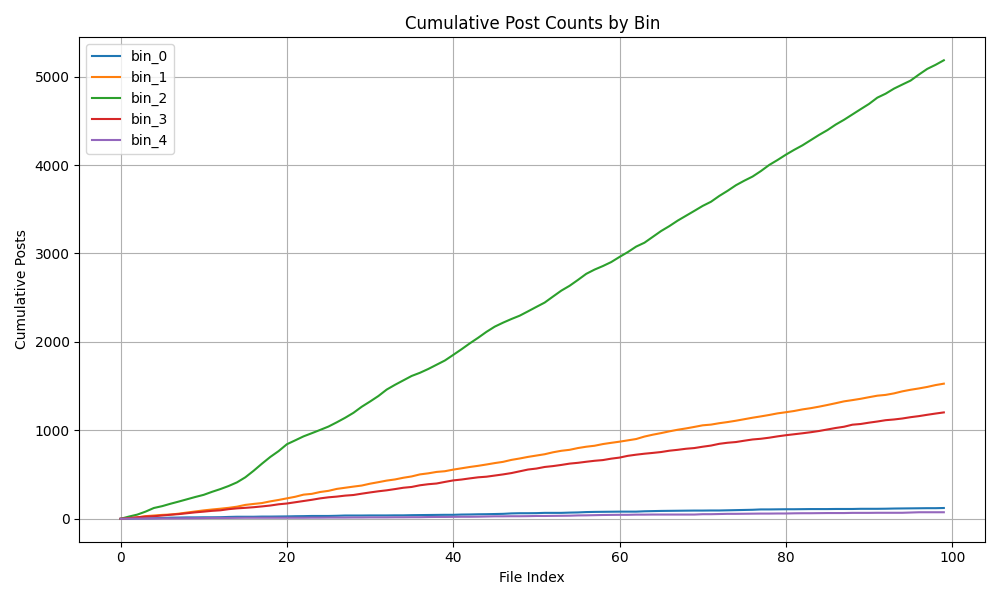
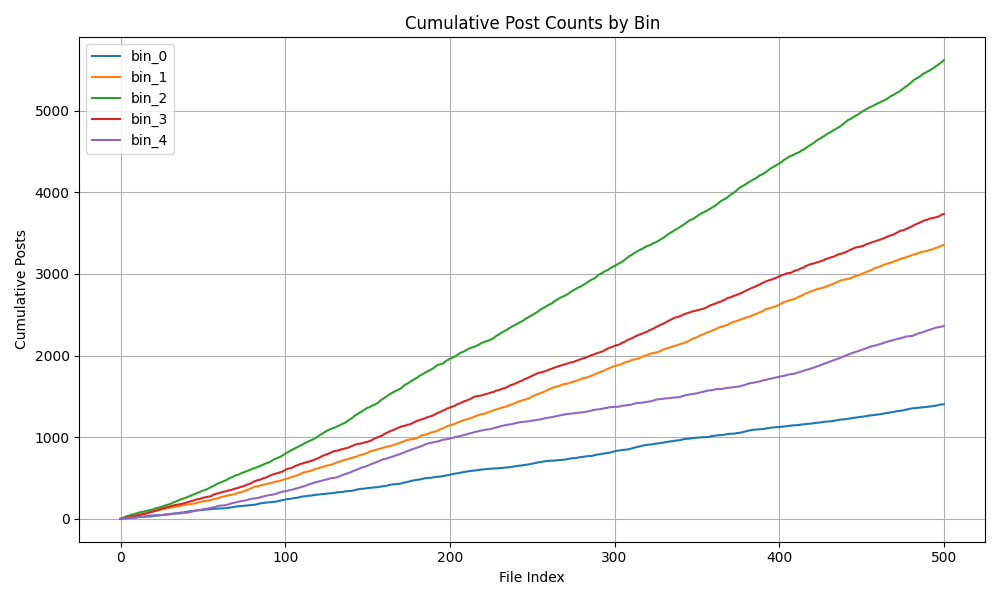
200人でエコチェ再現

diff --git a/src/agent/Agent.java b/src/agent/Agent.java
@@ -19,7 +19,7 @@ public class Agent {
     private final double unfollowProbThres = Const.UNFOLLOW_RATE;
     private double postDrive; // 投稿意欲を表現するパラメータ [0,1]
     private int toPost; // ある時刻において何件の投稿をするか
-    private int numOfPosts = rand.nextInt(100); // 毎時何件の投稿を閲覧できるか
+    private int numOfPosts = rand.nextInt(90) + 10; // 毎時何件の投稿を閲覧できるか
     private final double rewireProbThres = Const.REWIRE_RATE;
     private int opinionClass;
 
@@ -27,8 +27,9 @@ public class Agent {
     public Agent(int agentID) {
         this.id = agentID;
         // this.tolerance = rand.nextDouble(); // 0〜1 の乱数
-        this.tolerance = 0.4;
+        this.tolerance = 0.8;
         this.intrinsicOpinion = Math.max(-1.0, Math.min(1.0, rand.nextGaussian() * 0.5));
+        // this.intrinsicOpinion = rand.nextDouble() * 2.0 - 1;
         this.opinion = this.intrinsicOpinion;
         this.screen = new int[NUM_OF_AGENTS]; // 全ユーザの中で、どのユーザの投稿を何件閲覧するかについての配列(隣接行列の行成分)
         this.bc = Const.BOUNDED_CONFIDENCE; // 動的にしてもよい。
@@ -59,8 +60,12 @@ public class Agent {
         return this.toPost;
     }
 
-    public int getOpinionClass(){
+    public int getOpinionClass() {
         return this.opinionClass;
+    }
+
+    public double getBc(){
+        return this.bc;
     }
 
     // setter methods
@@ -85,7 +90,7 @@ public class Agent {
         this.toPost = value;
     }
 
-    public void setOpinionClass(){
+    public void setOpinionClass() {
         double shiftedOpinion = this.opinion + 1; // [-1,1] → [0,2]
         double opinionBinWidth = 2.0 / Const.NUM_OF_BINS_OF_OPINION;
         this.opinionClass = (int) Math.min(shiftedOpinion / opinionBinWidth, Const.NUM_OF_BINS_OF_OPINION - 1);
@@ -104,7 +109,7 @@ public class Agent {
         double[] weight = Network.getAdjacencyMatrix()[this.id].clone();
 
         for (int i = 0; i < NUM_OF_AGENTS; i++) {
-            if (allAgents[i].getToPost() > 0) { // その人が投稿した場合だけ、投稿を見て影響を受ける。そもそも投稿しないなら影響０
+            if (allAgents[i].getToPost() > 0 && screen[i] > 0) { // その人が投稿した場合だけ、投稿を見て影響を受ける。そもそも投稿しないなら影響０
                 temp += weight[i] * allAgents[i].getOpinion();
             }
         }
@@ -112,9 +117,11 @@ public class Agent {
         // 意見の加重平均（スクリーンに誰もいない場合は intrinsicOpinion のみ）
         if (temp == 0.0) {
             this.opinion = this.tolerance * this.intrinsicOpinion + (1 - this.tolerance) * this.opinion;
-            //System.out.println("user " + this.id + " has not read any posts"); // 誰もフォローしてないか、それとも誰も投稿してないか
+            // System.out.println("user " + this.id + " has not read any posts"); //
+            // 誰もフォローしてないか、それとも誰も投稿してないか
         } else {
             this.opinion = this.tolerance * this.intrinsicOpinion + (1 - this.tolerance) * temp;
+            // System.out.println("influencial opinion score : "+ temp);
             // System.out.println("\nupdated opinion: " + this.opinion);
         }
 
@@ -237,6 +244,7 @@ public class Agent {
 
         if (rewireProbThres <= rand.nextDouble()) {
             result[0] = -1;
+            result[1] = -1;
             return result;
         }
 
@@ -254,13 +262,13 @@ public class Agent {
                 if (diff >= this.bc) {
                     unfollowCandidates.add(i);
                 }
-            } else if (screen[i] == 0) {
-                for (int id : followList) {
-                    double diff = Math.abs(this.opinion - agentSet[id].getOpinion());
-                    if (diff <= this.bc) {
-                        followCandidates.add(id);
-                    }
-                }
+            }
+        }
+
+        for (int candidateId : followList) {
+            double diff = Math.abs(this.opinion - agentSet[candidateId].getOpinion());
+            if (diff <= this.bc) {
+                followCandidates.add(candidateId);
             }
         }
 
@@ -276,6 +284,11 @@ public class Agent {
 
             result[0] = followId;
             result[1] = unfollowId;
+            if (this.bc > Const.MINIMUM_BC + 0.01) {
+                this.bc -= 0.01;
+                // System.out.println("bc is reduced to : " + this.bc + ", whose opinion is " +
+                // this.opinion);
+            }
         } else {
             // どちらか一方の候補がいなければ、リワイヤリングできない
             result[0] = -1;
@@ -297,15 +310,15 @@ public class Agent {
         // 周りに同じ意見の人がどのくらいいるかで決定
         int numOfComfortPost = 0;
         for (int i = 0; i < n; i++) {
-            if (this.screen[i] > 0 && Math.abs(agentSet[i].getOpinion() - this.opinion) < 0.2) {
+            if (this.screen[i] > 0 && Math.abs(agentSet[i].getOpinion() - this.opinion) < Const.MINIMUM_BC) {
                 numOfComfortPost += this.screen[i];
             }
         }
         double comfortRate = (double) numOfComfortPost / this.numOfPosts;
-        if (comfortRate > 0.2) {
-            this.postDrive += comfortRate * 0.05;
+        if (comfortRate > 0.8) {
+            this.postDrive += comfortRate;
         }
-        if (this.postDrive > 0.5) {
+        if (this.postDrive > 0.8) {
             this.toPost = 1;
             this.postDrive = 0;
         } else {

diff --git a/src/dynamics/OpinionDynamics.java b/src/dynamics/OpinionDynamics.java
@@ -94,21 +94,22 @@ public class OpinionDynamics {
 
             //// SNS Admin optimization
 
-            try {
-                network.setAdjacencyMatrix(AdminOptimizer.AdminFeedback(agentSet, network,
-                        agentNum));
-            } catch (GRBException e) {
-                System.out.println("Gurobi optimization error: " + e.getMessage());
-                e.printStackTrace();
-            }
-
-            // network.setAdjacencyMatrix(AdminSlimOptimizer.AdminFeedback(agentSet,
-            // network, agentNum));
             /*
-             * for (int i = 0; i < agentNum; i++) {
-             * agentSet[i].updateScreen(network.getAdjacencyMatrix());
+             * try {
+             * network.setAdjacencyMatrix(AdminOptimizer.AdminFeedback(agentSet, network,
+             * agentNum));
+             * } catch (GRBException e) {
+             * System.out.println("Gurobi optimization error: " + e.getMessage());
+             * e.printStackTrace();
              * }
              */
+
+            network.setAdjacencyMatrix(AdminSlimOptimizer.AdminFeedback(agentSet, network, agentNum));
+
+            for (int i = 0; i < agentNum; i++) {
+                agentSet[i].updateScreen(network.getAdjacencyMatrix());
+            }
+
             ASChecker.assertionChecker(agentSet, network, agentNum, step);
             System.out.println("SNS Admin feedback finished. ");
 
@@ -163,43 +164,57 @@ public class OpinionDynamics {
             double[][] tempAdjacencyMatrix = network.getAdjacencyMatrix();
 
             //// social rewiring
+            double rewireBc = 0.0;
+            double rewireOpinionStrength = 0.0;
             for (int i = 0; i < agentNum; i++) {
-                
+
                 // follow List の作成
                 List<Integer> followList = new ArrayList<>();
 
+                /*
+                 * for (int j = 0; j < agentNum; j++) {
+                 * if (tempAdjacencyMatrix[i][j] > 0) { // iがjをフォローしている（1-hop）
+                 * for (int k = 0; k < agentNum; k++) {
+                 * if (tempAdjacencyMatrix[j][k] > 0 && k != i && tempAdjacencyMatrix[i][k] ==
+                 * 0) {
+                 * // jがkをフォローしていて、iはkをフォローしていない → iにとっての2-hop先
+                 * followList.add(k);
+                 * }
+                 * }
+                 * }
+                 * }
+                 */
+
                 for (int j = 0; j < agentNum; j++) {
-                    if (tempAdjacencyMatrix[i][j] > 0) { // iがjをフォローしている（1-hop）
-                        for (int k = 0; k < agentNum; k++) {
-                            if (tempAdjacencyMatrix[j][k] > 0 && k != i && tempAdjacencyMatrix[i][k] == 0) {
-                                // jがkをフォローしていて、iはkをフォローしていない → iにとっての2-hop先
-                                followList.add(k);
-                            }
-                        }
+                    if (i != j && tempAdjacencyMatrix[i][j] == 0.0) {
+                        followList.add(j);
                     }
                 }
 
                 // 重複を削除 (フォローしているユーザがフォローしているユーザは被る可能性がある)
                 followList = new ArrayList<>(new HashSet<>(followList));
-                
+
                 // rewire action
                 int[] result = agentSet[i].rewire(followList, agentSet);
                 if (result[0] != -1 && result[1] != -1) {
                     network.setEdge(i, result[1], tempAdjacencyMatrix[i][result[1]]);
                     network.setEdge(i, result[0], 0);
+                    // System.out.println(i + " unfollows " + result[0] + ", follows " + result[1]);
                     agentSet[i].updateScreen(tempAdjacencyMatrix); // just for consistence
+                    rewireBc += agentSet[i].getBc();
+                    rewireOpinionStrength += Math.abs(agentSet[i].getOpinion());
                     rewireActionNum++;
                 }
             }
             ASChecker.assertionChecker(agentSet, network, agentNum, step);
+            System.out.println("avg rewire bc : " + rewireBc / rewireActionNum + ", avg rewire opinion strength : "
+                    + rewireOpinionStrength / rewireActionNum);
             System.out.println("social rewiring finished.");
 
-            
             /// decide whether to post
-            for( int i = 0; i < agentNum; i++){
+            for (int i = 0; i < agentNum; i++) {
                 agentSet[i].decideToPost(agentSet);
             }
-
 
             //// social influence
             for (int i = 0; i < agentNum; i++) {

diff --git a/src/optim/AdminOptimSlim.java b/src/optim/AdminOptimSlim.java
@@ -1,7 +1,9 @@
 package optim;
 
 import agent.Agent;
+import constants.Const;
 import java.util.ArrayList;
+import java.util.List;
 import java.util.Random;
 import network.*;
 
@@ -13,58 +15,38 @@ public class AdminOptimSlim {
     }
 
     public double[][] AdminFeedback(Agent[] agentSet, Network network, int agentNum) {
-        Random rand = new Random(1);
-        double[][] W0 = network.getAdjacencyMatrix();
+        Random rand = new Random();
+        double[][] W = network.getAdjacencyMatrix();
         int n = agentNum;
 
-        double[] opinionArray = new double[n];
         for (int i = 0; i < n; i++) {
-            opinionArray[i] = agentSet[i].getOpinion();
-        }
-
-        double[][] W = new double[n][n];
-        int[] numFollowee = new int[n];
-        for (int i = 0; i < n; i++) {
-            W[i] = W0[i].clone();
+            // BCに基づいていいねする人を決める
+            List<Integer> likeCandidates = new ArrayList<>();
+            double bc = agentSet[i].getBc();
+            double opinion = agentSet[i].getOpinion();
             for (int j = 0; j < n; j++) {
-                if (W[i][j] > 0) {
-                    numFollowee[i]++;
+                if(W[i][j] > 0.5 || W[i][j] == 0.0){
+                    continue;
+                }
+                if (Math.abs(opinion - agentSet[j].getOpinion()) < bc && i != j) {
+                    likeCandidates.add(j);
                 }
             }
-        }
+            if (!likeCandidates.isEmpty()) {
+                int likeId = likeCandidates.get(rand.nextInt(likeCandidates.size()));
+                W[i][likeId] += Const.FEEDBACK_INCREASE_WEIGHT;
 
-        for (int i = 0; i < n; i++) {
-            // Admin cannot give feedback to those who follow only one other user as they
-            // just watch the person's posts.
-            if (numFollowee[i] < 2) {
-                continue;
-            }
-
-            int closestAgentId = -1;
-            double closestOpinionDiff = 1.0;
-            for (int j = 0; j < n; j++) {
-                // opinionArray に変更
-                if (W0[i][j] > 0 && closestOpinionDiff > Math.abs(opinionArray[i] - opinionArray[j])) {
-                    closestOpinionDiff = Math.abs(opinionArray[i] - opinionArray[j]);
-                    closestAgentId = j;
-                }
-            }
-            if (closestAgentId != -1) {
-                // 最も意見が近いユーザに対する投稿閲覧数を増加させる
-                W[i][closestAgentId]++;
-                // 他に閲覧しているユーザがいれば、どれかからランダムに選んで減らす(閲覧できる投稿数は各自不変)
-                ArrayList<Integer> candidates = new ArrayList<>();
+                double rowSum = 0.0;
                 for (int j = 0; j < n; j++) {
-                    if (j != closestAgentId && W[i][j] > 0) {
-                        candidates.add(j);
-                    }
+                    //if (j != likeId) {
+                        rowSum += W[i][j];
+                    //}
                 }
-
-                if (!candidates.isEmpty()) {
-                    int toDecrease = candidates.get(rand.nextInt(candidates.size()));
-                    W[i][toDecrease]--;
-                    if (W[i][toDecrease] == 0) {
-                        // System.out.println("detected the event of W[i][j] being 0.");
+                if (rowSum > 0.0) {
+                    for (int j = 0; j < n; j++) {
+                        //if (j != likeId) {
+                            W[i][j] /= rowSum;
+                        //}
                     }
                 }
             }

diff --git a/src/constants/Const.java b/src/constants/Const.java
@@ -2,16 +2,18 @@ package constants;
 
 public class Const {
     // simulation parameter
-    public static final int MAX_SIMULATION_STEP = 100;
-    public static final double DYNAMIC_RATE_OF_ADMIN = 0.05;
-    public static final int NUM_OF_USER = 500;
-    public static final int NUM_OF_SNS_USER = 500;
+    public static final int MAX_SIMULATION_STEP = 1000;
+    public static final double DYNAMIC_RATE_OF_ADMIN = 0.01;
+    public static final int NUM_OF_USER = 200;
+    public static final int NUM_OF_SNS_USER = 200;
 
+    // Admin feedback parameter
+    public static final double FEEDBACK_INCREASE_WEIGHT = 0.1;
 
     public static final double UNACCEPTABLE_BOUNDED_CONFIDENCE = 0.7;
 
     // network parameter
-    public static final double CONNECTION_PROB_OF_RANDOM_NW = 0.02;
+    public static final double CONNECTION_PROB_OF_RANDOM_NW = 0.1;
 
     // follow parameter
     public static final double FOLLOW_RATE = 0.5;
@@ -21,8 +23,9 @@ public class Const {
     //public static final double MIN_OPINION_DIFF_TO_UNFOLLOW = 0.4;
 
     // rewire parameter
-    public static final double REWIRE_RATE = 0.1;
-    public static final double BOUNDED_CONFIDENCE = 0.7;
+    public static final double REWIRE_RATE = 1.0;
+    public static final double BOUNDED_CONFIDENCE = 1.0;
+    public static final double MINIMUM_BC = 0.1;
 
     // input data parameter
     public static final String EDGES_FILE_PATH = "Twitter/edgesTwitter.txt";

diff --git a/python/scripts/post_analysis.py b/python/scripts/post_analysis.py
@@ -2,7 +2,7 @@ import pandas as pd
 import matplotlib.pyplot as plt
 import os
 
-def read_and_accumulate_bins(data_dir, max_index=99):
+def read_and_accumulate_bins(data_dir, max_index=500):
     bins = ['bin_0', 'bin_1', 'bin_2', 'bin_3', 'bin_4']
     cumulative_counts = {bin_name: [] for bin_name in bins}
     current_cumulative = {bin_name: 0 for bin_name in bins}
@@ -25,7 +25,7 @@ def read_and_accumulate_bins(data_dir, max_index=99):
                 cumulative_counts[bin_name].append(current_cumulative[bin_name])
             
             x.append(i)
-            print(f"[{i:02d}] 読み込み完了: {filename}")
+            #print(f"[{i:02d}] 読み込み完了: {filename}")
         except Exception as e:
             print(f"[{i:02d}] エラー発生: {e}")
 
@@ -54,7 +54,7 @@ def plot_cumulative_bins(x, cumulative_counts):
     output_path = "cumulative_bins.png"
     plt.savefig(output_path)
     print(f"✅ プロット画像を保存しました: {output_path}")
-    plt.show()
+    #plt.show()
 
 def main():
     data_dir = "./results/posts"  # ← ディレクトリパスを修正

diff --git a/src/gephi/GraphVisualize.java b/src/gephi/GraphVisualize.java
@@ -101,6 +101,7 @@ public class GraphVisualize {
             Node node = graph.getNode(String.valueOf(i));
             if (node != null) {
                 node.setAttribute("opinion", agents[i].getOpinion());
+                node.setAttribute("opinionClass", agents[i].getOpinionClass());
             }
         }
 
